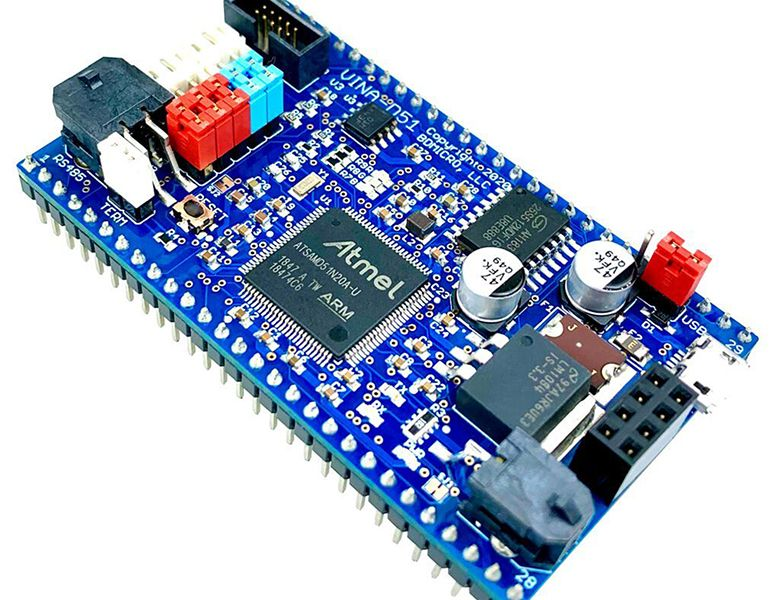
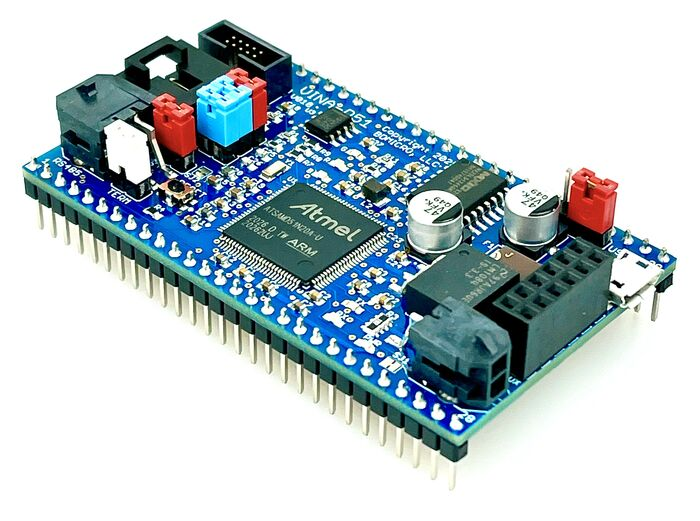
_board/bdmicro_vina_d51.md (and images): Updates for latest revision.

diff --git a/_board/bdmicro_vina_d51.md b/_board/bdmicro_vina_d51.md
@@ -2,28 +2,94 @@
 layout: download
 board_id: "bdmicro_vina_d51"
 title: "Vina-D51 Download"
-name: "Vina-D51"
+name: "VINA-D51"
 manufacturer: "BDMICRO, LLC"
-board_url: "https://bdmicro.com/collections/frontpage/products/vina-d51"
+board_url: "https://bdmicro.com/products/vina-d51"
 board_image: "bdmicro_vina_d51.jpg"
 date_added: 2020-10-16
 features:
+  - RS485
+  - 64MB QSPI Flash Filesystem
+  - AUX Expansion
+  - Latching Connectors
 ---
 
-The VINA-D51 is a powerful, robust, pluggable control module designed for modular control applications. Built with all-industrial grade components and features, it is well-suited for a wide variety of automation and control requirements, including harsh environments.
+**Overview**
 
-The VINA-D51 Control Module saves time and money by providing a proven, modular design, that enables custom application-specific solutions to move from the drawing board to the finished product quickly.
+The VINA-D51 is a powerful, robust, pluggable control module designed
+for modular control applications, even in harsh environments. Built
+with all-industrial grade components, latching connectors and
+features, it is well-suited for a wide variety of automation and
+control applications.
 
-VINA-D51 enables you to develop your application-specific board independently of the controller section. This simplifies your design, saves CAD time during the design phase, reduces errors that can cost weeks of PCB re-manufacture to correct, and saves debug time during the prototype and testing phases. By starting with VINA-D51, you start from a known-good foundation, reducing complexity and risk.
+**VINA-D51 at a glance**
 
-Incorporate the VINA-D51 in your designs over and over again and multiply your savings. Useful for custom applications, one-off projects, breadboarded prototypes, and even standalone projects. VINA-D51 has all of the common essentials built-in, on-board.
+* Based on the Microchip ATSAMD51N20A ARM Cortex-M4 MCU
+* CircuitPython and UF2 Bootloader pre-installed
+* Easy Quick-Start
+* Flexible power input of 3.7 - 24V with vibration resistant latching connector
+* Powerful debug capabilities
+* Large 64MB QSPI Flash Filesystem for data and program storage
+* Latching I2C connector w/optional pull-ups and 3.3V power
+* Latching RS485 connector w/optional termination and 3.3V power
+* Versatile AUX Expansion Socket w/full SERCOM support, including six additional I/O with a variety of additional control peripherals
+* WIFI-enabled using the 12-pin AUX Expansion Socket with ESP-01S WIFI module or ATW-01 WINC-1500 module
+* 58 Digital and Analog I/O, 48 on the edge pins and 10 on the AUX Expansion Socket
+* Multiple UARTs, I2Cs, SPIs, USB, A/D Inputs, 2 DAC outpus, Digital I/O, Capacitive Touch, I2S Audio
+* RTC Crystal
+* AutoDesk Eagle CAD part available for download to easily incorporate into your application-specific designs
 
-To get you started even more quickly, BDMICRO provides the Autodesk Eagle CAD part for VINA-D51. Getting started is as easy as downloading the part and adding it to your application specific design, allowing you to focus on your custom application's needs, with all the right connectors, headers, and other circuitry needed for your project solution.
 
-Capable of running standalone, modular piggy back on application-specific boards, or breadboarded, the VINA-D51 is a great choice for your next project.
+**Everything you need from your Control Module**
+
+* **POWER** : Powerful 32-bit ARM Cortex M4 microcontroller @ 120 MHz,
+    based on the Microchip ATSAMD51N20 w/1MB of program flash and 256K
+    of RAM
+
+* **INDUSTRIAL GRADE** : All industrial spec parts and latching
+    connectors for reliable operation in demanding applications
+
+* **CONNECTIVITY** : USB interface for connecting to your development
+    PC or Laptop computer for programming; provides virtual com port
+    for CircuitPython console and UART, and mass storage filesystem
+    interface to the 64MB on-board QSPI flash for programs and data
+    storage; can additionally be used in your application
+
+* **CONTROL & INTERFACING** : RS485, I2C, WIFI & Expansion : Latching
+    RS485 interface connector on-board which is a UART-style
+    differential bus with high noise immunity common in manufacturing
+    and control automation applications; Latching I2C interface
+    connector on-board for sensors, controllers, displays, keypads,
+    etc, on this commonly used bus; 12-pin AUX Expansion Socket
+    on-board and WIFI-enabled using the ubiquitous and inexpensive
+    ESP-01S module and general expansion capability; additionally,
+    VINA-D51 brings out Digital I/O, UARTs, I2C, SPI, A/D, DAC, USB,
+    and many other useful control and interfacing capabilities to the
+    edge
+
+* **DEVELOPMENT & DEBUG** : CircuitPython and UF2 Bootloader
+    pre-installed to get started developing right away with just a
+    laptop or PC and a text editor; no extra software or IDEs to
+    install and no extra hardware to purchase; and with a standard ARM
+    Cortex SWD debug header on-board, low level programming in C/C++
+    with source-level, single-step debugging utilizing a hardware
+    programmer like the Segger J-Link
+
+* **DATA STORAGE** : Large 64 MB of on-board flash filesystem storage
+    space for your programs and data presented as an external drive on
+    your development workstation; soldered directly to the board, this
+    flash storage will not suffer from corrosion or vibration in harsh
+    environments like SD-Card type storage are prone
+
+* **FLEX VOLTAGE** : Robust power section with wide voltage input
+    range for flexible and reliable operation, and enough headroom to
+    supply power to other devices - perhaps even your whole
+    application board - up to about 3 amps; incorporates industrial
+    grade Molex latch-lock connector that will not vibrate loose even
+    in the most demanding applications
 
 ## Purchase
-* [BDMICRO](https://bdmicro.com/collections/frontpage/products/vina-d51)
+* [BDMICRO](https://bdmicro.com/products/vina-d51)
 
 ## Contribute
 
